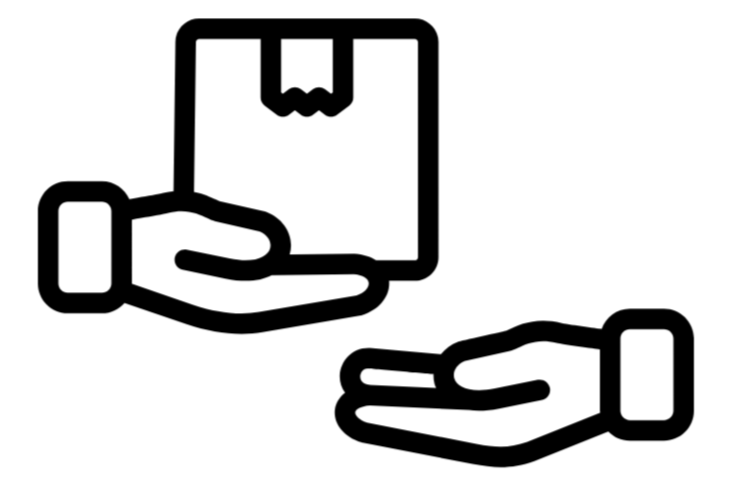
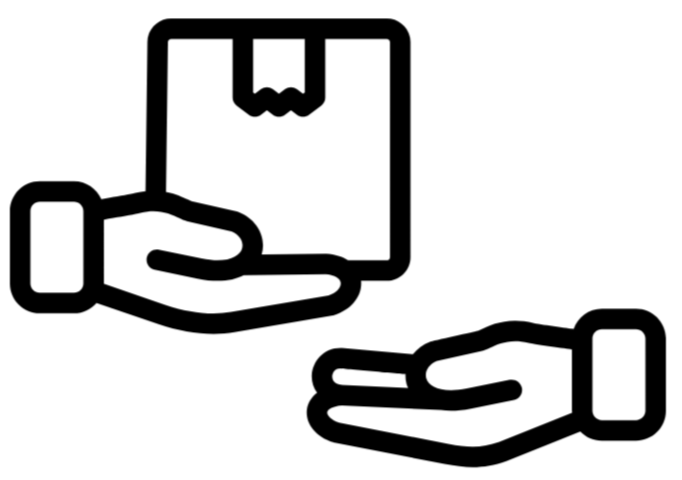
style: update color scheme to lighter beige across pages
- Update background color from #faf5ee to #FDF9F5 in about, admin, cart, checkout, and complete-data pages
- Replace order summary background color in cart and checkout pages with new lighter beige
- Update form input backgrounds in complete-data page to match new color scheme
- Add Footer component to checkout page (desktop only)
- Add mobileFooter={false} prop to PageWrapper in cart page
- Update hands.png image asset in HomeBeforeLogin directory
- Ensure consistent warm beige color palette across all user-facing pages

diff --git a/src/app/register/page.tsx b/src/app/register/page.tsx
@@ -17,7 +17,7 @@ export default function RegisterPage() {
   };
 
   return (
-    <div className="bg-[#faf5ee] min-h-screen flex items-center justify-center p-4">
+    <div className="bg-[#FDF9F5] min-h-screen flex items-center justify-center p-4">
       <div className="flex max-w-[906px] w-full shadow-lg">
         <div className="hidden md:block w-[448px] h-[675px] relative overflow-hidden">
           <img alt="" className="absolute h-[148.01%] left-[-111.31%] max-w-none top-[-23.71%] w-[396.5%]" src="/images/Register/fbb1676fb1e714ce082c8512433c9a5517bce894.png" />
@@ -29,20 +29,20 @@ export default function RegisterPage() {
           <form onSubmit={handleRegister} className="mt-8 space-y-5">
             <div>
               <label className="font-['Manrope',sans-serif] text-[12px] text-[#605850] tracking-[1.1px] uppercase">Full Name</label>
-              <input type="text" value={name} onChange={(e) => setName(e.target.value)} placeholder="Febri" className="w-full mt-2 bg-[#faf5ee] border border-[#d8d0c8] rounded-[8px] px-4 py-3 font-['Manrope',sans-serif] text-[14px] placeholder-[rgba(154,144,136,0.5)] outline-none" />
+              <input type="text" value={name} onChange={(e) => setName(e.target.value)} placeholder="Febri" className="w-full mt-2 bg-[#FDF9F5] border border-[#d8d0c8] rounded-[8px] px-4 py-3 font-['Manrope',sans-serif] text-[14px] placeholder-[rgba(154,144,136,0.5)] outline-none" />
             </div>
             <div>
               <label className="font-['Manrope',sans-serif] text-[12px] text-[#605850] tracking-[1.1px] uppercase">Email Address</label>
-              <input type="email" value={email} onChange={(e) => setEmail(e.target.value)} placeholder="Febri@gmail.com" className="w-full mt-2 bg-[#faf5ee] border border-[#d8d0c8] rounded-[8px] px-4 py-3 font-['Manrope',sans-serif] text-[14px] placeholder-[rgba(154,144,136,0.5)] outline-none" />
+              <input type="email" value={email} onChange={(e) => setEmail(e.target.value)} placeholder="Febri@gmail.com" className="w-full mt-2 bg-[#FDF9F5] border border-[#d8d0c8] rounded-[8px] px-4 py-3 font-['Manrope',sans-serif] text-[14px] placeholder-[rgba(154,144,136,0.5)] outline-none" />
             </div>
             <div className="flex gap-4">
               <div className="flex-1">
                 <label className="font-['Manrope',sans-serif] text-[12px] text-[#605850] tracking-[1.1px] uppercase">Password</label>
-                <input type="password" value={password} onChange={(e) => setPassword(e.target.value)} placeholder="••••••••" className="w-full mt-2 bg-[#faf5ee] border border-[#d8d0c8] rounded-[8px] px-4 py-3 font-['Manrope',sans-serif] text-[14px] placeholder-[rgba(154,144,136,0.5)] outline-none" />
+                <input type="password" value={password} onChange={(e) => setPassword(e.target.value)} placeholder="••••••••" className="w-full mt-2 bg-[#FDF9F5] border border-[#d8d0c8] rounded-[8px] px-4 py-3 font-['Manrope',sans-serif] text-[14px] placeholder-[rgba(154,144,136,0.5)] outline-none" />
               </div>
               <div className="flex-1">
                 <label className="font-['Manrope',sans-serif] text-[12px] text-[#605850] tracking-[1.1px] uppercase">Confirm</label>
-                <input type="password" value={confirm} onChange={(e) => setConfirm(e.target.value)} placeholder="••••••••" className="w-full mt-2 bg-[#faf5ee] border border-[#d8d0c8] rounded-[8px] px-4 py-3 font-['Manrope',sans-serif] text-[14px] placeholder-[rgba(47,37,29,0.5)] outline-none" />
+                <input type="password" value={confirm} onChange={(e) => setConfirm(e.target.value)} placeholder="••••••••" className="w-full mt-2 bg-[#FDF9F5] border border-[#d8d0c8] rounded-[8px] px-4 py-3 font-['Manrope',sans-serif] text-[14px] placeholder-[rgba(47,37,29,0.5)] outline-none" />
               </div>
             </div>
             <button type="submit" className="w-full bg-[#511e0b] text-white rounded-[8px] h-[53px] font-['Manrope',sans-serif] text-[14px] tracking-[1.4px] uppercase shadow-[0px_1px_2px_0px_rgba(0,0,0,0.05)] cursor-pointer border-none hover:bg-[#3d1608] transition-colors">
@@ -56,7 +56,7 @@ export default function RegisterPage() {
             <div className="flex-1 h-px bg-[#deadad]" />
           </div>
 
-          <button className="w-full mt-4 bg-[#faf5ee] rounded-[8px] h-[53px] font-['Manrope',sans-serif] text-[14px] text-[#798698] tracking-[1.4px] uppercase shadow-[0px_1px_2px_0px_rgba(0,0,0,0.05)] cursor-pointer border-none hover:bg-[#f0e8dc] transition-colors">
+          <button className="w-full mt-4 bg-[#FDF9F5] rounded-[8px] h-[53px] font-['Manrope',sans-serif] text-[14px] text-[#798698] tracking-[1.4px] uppercase shadow-[0px_1px_2px_0px_rgba(0,0,0,0.05)] cursor-pointer border-none hover:bg-[#f0e8dc] transition-colors">
             GOOGLE
           </button>
 

diff --git a/src/app/complete-data/page.tsx b/src/app/complete-data/page.tsx
@@ -16,7 +16,7 @@ export default function CompleteDataPage() {
   };
 
   return (
-    <div className="bg-[#faf5ee] min-h-screen flex items-center justify-center p-4">
+    <div className="bg-[#FDF9F5] min-h-screen flex items-center justify-center p-4">
       <div className="flex max-w-[906px] w-full shadow-lg">
         <div className="hidden md:block w-[448px] h-[675px] relative overflow-hidden">
           <img alt="" className="absolute h-[148.01%] left-[-111.31%] max-w-none top-[-23.71%] w-[396.5%]" src="/images/CompleteTheData/fbb1676fb1e714ce082c8512433c9a5517bce894.png" />
@@ -28,11 +28,11 @@ export default function CompleteDataPage() {
           <form onSubmit={handleSubmit} className="mt-8 space-y-5">
             <div>
               <label className="font-['Manrope',sans-serif] text-[12px] text-[#605850] tracking-[1.1px] uppercase">PHONE NUMBER</label>
-              <input type="tel" value={phone} onChange={(e) => setPhone(e.target.value)} placeholder="08117750" className="w-full mt-2 bg-[#faf5ee] border border-[#d8d0c8] rounded-[8px] px-4 py-3 font-['Manrope',sans-serif] text-[14px] placeholder-[rgba(154,144,136,0.5)] outline-none" />
+              <input type="tel" value={phone} onChange={(e) => setPhone(e.target.value)} placeholder="08117750" className="w-full mt-2 bg-[#FDF9F5] border border-[#d8d0c8] rounded-[8px] px-4 py-3 font-['Manrope',sans-serif] text-[14px] placeholder-[rgba(154,144,136,0.5)] outline-none" />
             </div>
             <div>
               <label className="font-['Manrope',sans-serif] text-[12px] text-[#605850] tracking-[1.1px] uppercase">ADDRESS</label>
-              <textarea value={address} onChange={(e) => setAddress(e.target.value)} placeholder="JL. Tata Surya" className="w-full mt-2 bg-[#faf5ee] border border-[#d8d0c8] rounded-[8px] px-4 py-3 font-['Manrope',sans-serif] text-[14px] placeholder-[rgba(154,144,136,0.5)] outline-none h-[180px] resize-none" />
+              <textarea value={address} onChange={(e) => setAddress(e.target.value)} placeholder="JL. Tata Surya" className="w-full mt-2 bg-[#FDF9F5] border border-[#d8d0c8] rounded-[8px] px-4 py-3 font-['Manrope',sans-serif] text-[14px] placeholder-[rgba(154,144,136,0.5)] outline-none h-[180px] resize-none" />
             </div>
             <div className="flex items-start gap-3">
               <input type="checkbox" checked={agreed} onChange={(e) => setAgreed(e.target.checked)} className="mt-1 w-4 h-4 rounded border-[#d8d0c8]" />
@@ -41,7 +41,7 @@ export default function CompleteDataPage() {
               </span>
             </div>
             <div className="flex gap-4">
-              <button type="button" onClick={() => router.back()} className="flex-1 bg-[#faf5ee] text-[#511e0b] rounded-[8px] h-[53px] font-['Manrope:Bold',sans-serif] font-bold text-[14px] tracking-[1.4px] uppercase shadow-[0px_1px_2px_0px_rgba(0,0,0,0.05)] cursor-pointer border-none hover:bg-[#f0e8dc] transition-colors">
+              <button type="button" onClick={() => router.back()} className="flex-1 bg-[#FDF9F5] text-[#511e0b] rounded-[8px] h-[53px] font-['Manrope:Bold',sans-serif] font-bold text-[14px] tracking-[1.4px] uppercase shadow-[0px_1px_2px_0px_rgba(0,0,0,0.05)] cursor-pointer border-none hover:bg-[#f0e8dc] transition-colors">
                 RETURN
               </button>
               <button type="submit" className="flex-[2] bg-[#511e0b] text-white rounded-[8px] h-[53px] font-['Manrope',sans-serif] text-[14px] tracking-[1.4px] uppercase shadow-[0px_1px_2px_0px_rgba(0,0,0,0.05)] cursor-pointer border-none hover:bg-[#3d1608] transition-colors">

diff --git a/src/app/login/page.tsx b/src/app/login/page.tsx
@@ -20,7 +20,7 @@ export default function LoginPage() {
   };
 
   return (
-    <div className="bg-[#faf5ee] min-h-screen flex items-center justify-center p-4">
+    <div className="bg-[#FDF9F5] min-h-screen flex items-center justify-center p-4">
       <div className="flex max-w-[906px] w-full shadow-lg">
         {/* Left: Decorative Pattern */}
         <div className="hidden md:block w-[448px] h-[675px] relative overflow-hidden">
@@ -39,7 +39,7 @@ export default function LoginPage() {
                 value={email}
                 onChange={(e) => setEmail(e.target.value)}
                 placeholder="Febri@gmail.com"
-                className="w-full mt-2 bg-[#faf5ee] border border-[#d8d0c8] rounded-[8px] px-4 py-3 font-['Manrope',sans-serif] text-[14px] text-[#9a9088] placeholder-[rgba(154,144,136,0.5)] outline-none"
+                className="w-full mt-2 bg-[#FDF9F5] border border-[#d8d0c8] rounded-[8px] px-4 py-3 font-['Manrope',sans-serif] text-[14px] text-[#9a9088] placeholder-[rgba(154,144,136,0.5)] outline-none"
               />
             </div>
             <div>
@@ -52,7 +52,7 @@ export default function LoginPage() {
                 value={password}
                 onChange={(e) => setPassword(e.target.value)}
                 placeholder="••••••••"
-                className="w-full mt-2 bg-[#faf5ee] border border-[#d8d0c8] rounded-[8px] px-4 py-3 font-['Manrope',sans-serif] text-[14px] text-[#9a9088] placeholder-[rgba(154,144,136,0.5)] outline-none"
+                className="w-full mt-2 bg-[#FDF9F5] border border-[#d8d0c8] rounded-[8px] px-4 py-3 font-['Manrope',sans-serif] text-[14px] text-[#9a9088] placeholder-[rgba(154,144,136,0.5)] outline-none"
               />
             </div>
 
@@ -67,7 +67,7 @@ export default function LoginPage() {
             <div className="flex-1 h-px bg-[#deadad]" />
           </div>
 
-          <button className="w-full mt-4 bg-[#faf5ee] rounded-[8px] h-[53px] font-['Manrope',sans-serif] text-[14px] text-[#798698] tracking-[1.4px] uppercase shadow-[0px_1px_2px_0px_rgba(0,0,0,0.05)] cursor-pointer border-none hover:bg-[#f0e8dc] transition-colors">
+          <button className="w-full mt-4 bg-[#FDF9F5] rounded-[8px] h-[53px] font-['Manrope',sans-serif] text-[14px] text-[#798698] tracking-[1.4px] uppercase shadow-[0px_1px_2px_0px_rgba(0,0,0,0.05)] cursor-pointer border-none hover:bg-[#f0e8dc] transition-colors">
             GOOGLE
           </button>
 

diff --git a/src/app/checkout/page.tsx b/src/app/checkout/page.tsx
@@ -4,6 +4,7 @@ import { useState } from "react";
 import Link from "next/link";
 import { useRouter } from "next/navigation";
 import { Shield, Check, Edit3 } from "lucide-react";
+import { Footer } from "../components/layout/Footer";
 import { PaymentOptionModal } from "../components/modals/PaymentOptionModal";
 import { AddressModal } from "../components/modals/AddressModal";
 import { EditAddressModal } from "../components/modals/EditAddressModal";
@@ -137,7 +138,7 @@ export default function CheckoutPage() {
         </div>
 
         {/* Right Column - Order Summary */}
-        <div className="w-full lg:w-[440px] bg-[#efefef] p-6 md:p-10 lg:min-h-[calc(100vh-80px)]">
+        <div className="w-full lg:w-[440px] bg-[#FDF9F5] shadow-sm border border-[#e0e0e0] p-6 md:p-10 lg:min-h-[calc(100vh-80px)]">
           <h2 className="font-bold text-[22px] text-[#511e0b]">Pesanan</h2>
 
           {/* Cart Items */}
@@ -218,6 +219,11 @@ export default function CheckoutPage() {
         onSave={() => {}}
         initialData={{ name: currentAddress.name, phone: currentAddress.phone, fullAddress: currentAddress.address, details: "" }}
       />
+
+      {/* Footer — desktop only */}
+      <div className="hidden lg:block">
+        <Footer />
+      </div>
     </div>
   );
 }

diff --git a/src/app/order-success/page.tsx b/src/app/order-success/page.tsx
@@ -13,7 +13,7 @@ export default function OrderSuccessPage() {
   }, []);
 
   return (
-    <div className="min-h-screen bg-[#faf5ee] flex flex-col">
+    <div className="min-h-screen bg-[#FDF9F5] flex flex-col">
       {/* Header */}
       <header className="bg-white h-20 flex items-center px-6 md:px-12 shadow-sm">
         <Link href="/" className="font-bold text-[18px] text-black tracking-tight no-underline flex items-center gap-2">
@@ -41,7 +41,7 @@ export default function OrderSuccessPage() {
 
           {/* Order number */}
           {orderNumber && (
-            <div className="bg-[#faf5ee] rounded-xl px-6 py-4 mb-6">
+            <div className="bg-[#FDF9F5] rounded-xl px-6 py-4 mb-6">
               <p className="text-[12px] text-[#6b6b6b] uppercase tracking-wider mb-1">Nomor Pesanan</p>
               <p className="font-bold text-[22px] text-[#511e0b]">{orderNumber}</p>
             </div>

diff --git a/src/app/cart/page.tsx b/src/app/cart/page.tsx
@@ -18,7 +18,7 @@ export default function CartPage() {
   const grandTotal = totalPrice + shipping + serviceFee + importTax;
 
   return (
-    <PageWrapper>
+    <PageWrapper mobileFooter={false}>
       <div className="max-w-[1200px] mx-auto px-6 md:px-8 py-10">
         <h1 className="font-bold text-[28px] text-[#511e0b] mb-8">
           Keranjang Belanja
@@ -92,7 +92,7 @@ export default function CartPage() {
             </div>
 
             {/* Order Summary */}
-            <div className="w-full lg:w-[320px] shrink-0 bg-[#FAF5EE] rounded-xl shadow-sm border border-[#e0e0e0] p-6 lg:sticky lg:top-28">
+            <div className="w-full lg:w-[320px] shrink-0 bg-[#FDF9F5] rounded-xl shadow-sm border border-[#e0e0e0] p-6 lg:sticky lg:top-28">
               <h2 className="font-bold text-[19px] text-black mb-4">Ringkasan Pesanan</h2>
 
               <div className="flex flex-col gap-2 mb-4">

diff --git a/src/app/components/layout/PageWrapper.tsx b/src/app/components/layout/PageWrapper.tsx
@@ -6,14 +6,19 @@ interface PageWrapperProps {
   children: ReactNode;
   showHeader?: boolean;
   showFooter?: boolean;
+  mobileFooter?: boolean; // if false, footer is hidden on mobile
 }
 
-export function PageWrapper({ children, showHeader = true, showFooter = true }: PageWrapperProps) {
+export function PageWrapper({ children, showHeader = true, showFooter = true, mobileFooter = true }: PageWrapperProps) {
   return (
     <div className="min-h-screen bg-[#f8f8f8] flex flex-col">
       {showHeader && <Header />}
       <main className="flex-1">{children}</main>
-      {showFooter && <Footer />}
+      {showFooter && (
+        <div className={mobileFooter ? undefined : "hidden lg:block"}>
+          <Footer />
+        </div>
+      )}
     </div>
   );
 }

diff --git a/src/app/admin/page.tsx b/src/app/admin/page.tsx
@@ -28,7 +28,7 @@ export default function AdminDashboardPage() {
 
   const stats = [
     { label: "Total Produk", value: totalProducts, icon: Package, color: "bg-blue-50 text-blue-600" },
-    { label: "Total Pesanan", value: totalOrders, icon: ShoppingBag, color: "bg-[#faf5ee] text-[#511e0b]" },
+    { label: "Total Pesanan", value: totalOrders, icon: ShoppingBag, color: "bg-[#FDF9F5] text-[#511e0b]" },
     { label: "Pesanan Baru", value: newOrders, icon: TrendingUp, color: "bg-[#FFF3CD] text-[#FBBE48]" },
     { label: "Kategori", value: totalCategories, icon: Tag, color: "bg-green-50 text-[#15a15b]" },
   ];

diff --git a/src/app/about/page.tsx b/src/app/about/page.tsx
@@ -69,7 +69,7 @@ export default function AboutPage() {
       </section>
 
       {/* Why Choose Us */}
-      <section className="py-12 md:py-16 px-6 md:px-16 bg-[#faf5ee]">
+      <section className="py-12 md:py-16 px-6 md:px-16 bg-[#FDF9F5]">
         <h2 className="text-center font-bold text-[24px] md:text-[28px] text-[#090909] tracking-tight">
           WHY CHOOSE US
         </h2>

diff --git a/src/app/page.tsx b/src/app/page.tsx
@@ -43,7 +43,7 @@ export default function HomePage() {
       </section>
 
       {/* Trending Now */}
-      <section className="bg-[#faf5ee] py-10 md:py-12 px-8 md:px-16">
+      <section className="bg-[#FDF9F5] py-10 md:py-12 px-8 md:px-16">
         <p className="text-center text-[13px] text-[#511e0b] tracking-widest uppercase">
           POPULAR PRODUCT
         </p>
